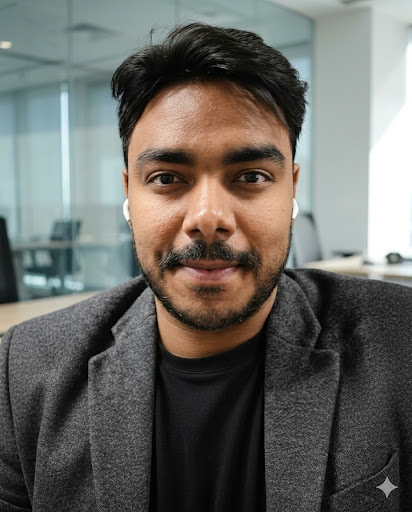
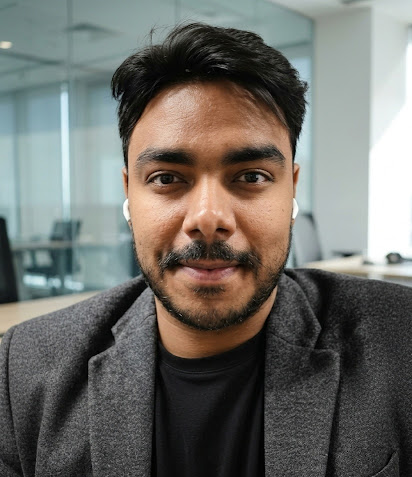
ci: add security scanning, fix CI sandbox, crop watermark
- Add Dependabot config for weekly npm + GitHub Actions updates
- Add CodeQL workflow for JavaScript security scanning
- Add security audit workflow (npm audit + outdated check)
- Fix puppeteer --no-sandbox for CI environments
- Crop Gemini watermark from ankit.png

diff --git a/scripts/generate-pdf.js b/scripts/generate-pdf.js
@@ -2,7 +2,11 @@ const puppeteer = require('puppeteer');
 const path = require('path');
 
 (async () => {
-  const browser = await puppeteer.launch({ headless: 'new' });
+  const isCI = process.env.CI === 'true';
+  const browser = await puppeteer.launch({
+    headless: 'new',
+    args: isCI ? ['--no-sandbox', '--disable-setuid-sandbox', '--disable-dev-shm-usage'] : [],
+  });
   const page = await browser.newPage();
   
   const htmlPath = path.resolve(__dirname, 'resume.html');
